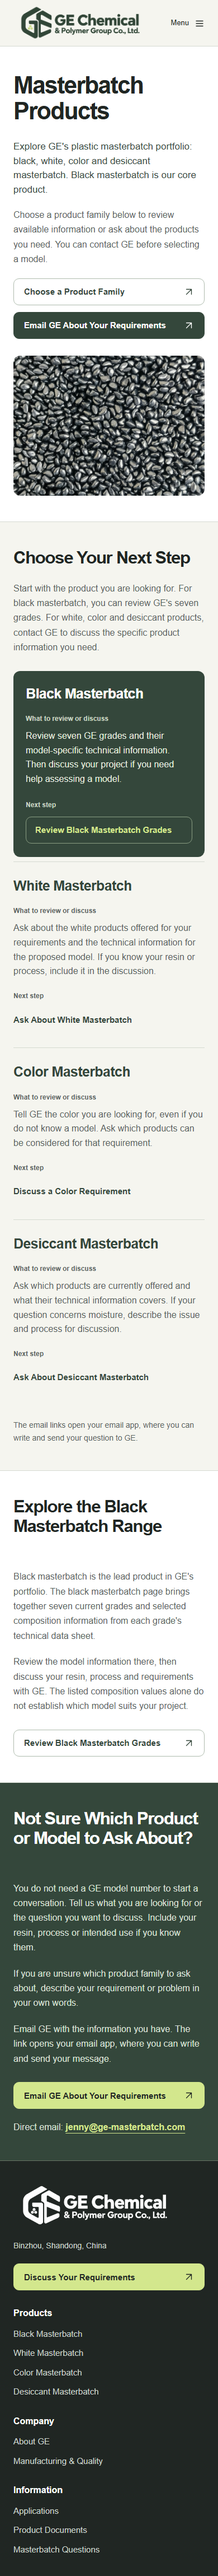
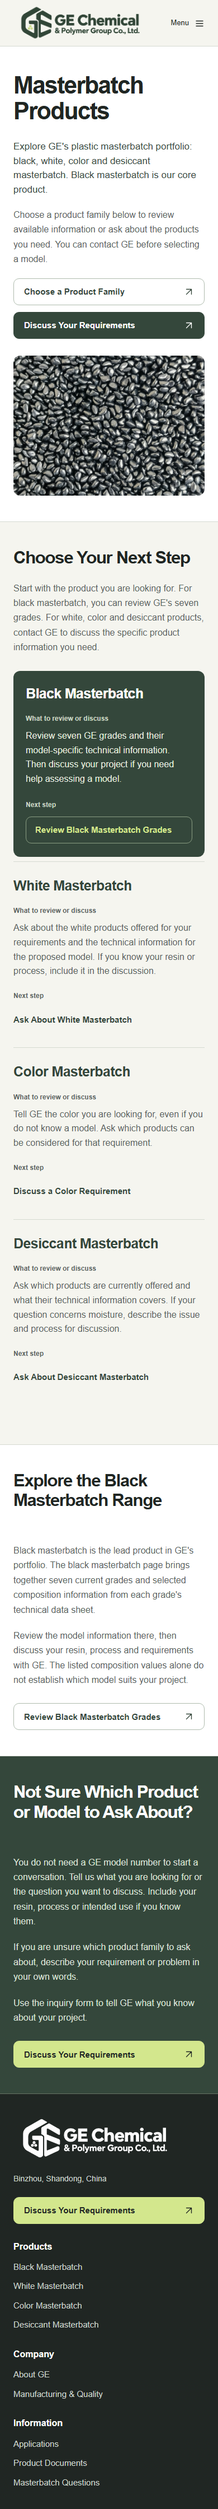
Replace P002 email actions with inquiry form entrances

Changed region(s): [[0.0, 0.0, 1.0, 1.0], [0.8308, 0.4375, 0.8923, 0.4688], [0.3385, 0.9688, 0.4, 1.0]]

diff --git a/planning/visuals/P002/p002-visual.html b/planning/visuals/P002/p002-visual.html
@@ -2,7 +2,7 @@
 <p>Explore GE&#39;s plastic masterbatch portfolio: black, white, color and desiccant masterbatch. Black masterbatch is our core product.</p>
 <p>Choose a product family below to review available information or ask about the products you need. You can contact GE before selecting a model.</p>
 <p class="action"><a class="btn secondary" href="#choose-your-next-step">Choose a Product Family<svg class="ui-icon" aria-hidden="true" focusable="false" xmlns="http://www.w3.org/2000/svg" viewBox="0 0 24 24" fill="none" stroke="currentColor" stroke-width="1.8" stroke-linecap="round" stroke-linejoin="round"><path d="M6 18 18 6M6 6h12v12"/></svg></a></p>
-<p class="action"><a class="btn primary" href="mailto:jenny@ge-masterbatch.com">Email GE About Your Requirements<svg class="ui-icon" aria-hidden="true" focusable="false" xmlns="http://www.w3.org/2000/svg" viewBox="0 0 24 24" fill="none" stroke="currentColor" stroke-width="1.8" stroke-linecap="round" stroke-linejoin="round"><path d="M6 18 18 6M6 6h12v12"/></svg></a></p>
+<p class="action"><a class="btn primary" href="/rfq">Discuss Your Requirements<svg class="ui-icon" aria-hidden="true" focusable="false" xmlns="http://www.w3.org/2000/svg" viewBox="0 0 24 24" fill="none" stroke="currentColor" stroke-width="1.8" stroke-linecap="round" stroke-linejoin="round"><path d="M6 18 18 6M6 6h12v12"/></svg></a></p>
 </div><figure class="hero-photo"><img src="../../inputs/Cmp_Info/PIC&Vedio/%E5%BE%AE%E4%BF%A1%E5%9B%BE%E7%89%87_20260707174840_213_1.jpg" alt="Black masterbatch granules"></figure></div></section><section class="families module" id="choose-your-next-step"><div class="shell"><h2>Choose Your Next Step</h2>
 <p>Start with the product you are looking for. For black masterbatch, you can review GE&#39;s seven grades. For white, color and desiccant products, contact GE to discuss the specific product information you need.</p>
 <table class="family-table">
@@ -21,20 +21,19 @@
 <tr class="family-row ">
 <td data-label="Your product interest"><strong>White Masterbatch</strong></td>
 <td data-label="What to review or discuss">Ask about the white products offered for your requirements and the technical information for the proposed model. If you know your resin or process, include it in the discussion.</td>
-<td data-label="Next step"><a href="mailto:jenny@ge-masterbatch.com">Ask About White Masterbatch</a></td>
+<td data-label="Next step"><a href="/rfq">Ask About White Masterbatch</a></td>
 </tr>
 <tr class="family-row ">
 <td data-label="Your product interest"><strong>Color Masterbatch</strong></td>
 <td data-label="What to review or discuss">Tell GE the color you are looking for, even if you do not know a model. Ask which products can be considered for that requirement.</td>
-<td data-label="Next step"><a href="mailto:jenny@ge-masterbatch.com">Discuss a Color Requirement</a></td>
+<td data-label="Next step"><a href="/rfq">Discuss a Color Requirement</a></td>
 </tr>
 <tr class="family-row ">
 <td data-label="Your product interest"><strong>Desiccant Masterbatch</strong></td>
 <td data-label="What to review or discuss">Ask which products are currently offered and what their technical information covers. If your question concerns moisture, describe the issue and process for discussion.</td>
-<td data-label="Next step"><a href="mailto:jenny@ge-masterbatch.com">Ask About Desiccant Masterbatch</a></td>
+<td data-label="Next step"><a href="/rfq">Ask About Desiccant Masterbatch</a></td>
 </tr>
 </tbody></table>
-<p>The email links open your email app, where you can write and send your question to GE.</p>
 </div></section><section class="black-range module"><div class="shell section-grid"><div class="section-heading"><h2>Explore the Black Masterbatch Range</h2>
 </div><div class="section-body"><p>Black masterbatch is the lead product in GE&#39;s portfolio. The black masterbatch page brings together seven current grades and selected composition information from each grade&#39;s technical data sheet.</p>
 <p>Review the model information there, then discuss your resin, process and requirements with GE. The listed composition values alone do not establish which model suits your project.</p>
@@ -42,7 +41,6 @@
 </div></div></section><section class="closing module"><div class="shell section-grid"><div class="section-heading"><h2>Not Sure Which Product or Model to Ask About?</h2>
 </div><div class="section-body"><p>You do not need a GE model number to start a conversation. Tell us what you are looking for or the question you want to discuss. Include your resin, process or intended use if you know them.</p>
 <p>If you are unsure which product family to ask about, describe your requirement or problem in your own words.</p>
-<p>Email GE with the information you have. The link opens your email app, where you can write and send your message.</p>
-<p class="action"><a class="btn primary" href="mailto:jenny@ge-masterbatch.com">Email GE About Your Requirements<svg class="ui-icon" aria-hidden="true" focusable="false" xmlns="http://www.w3.org/2000/svg" viewBox="0 0 24 24" fill="none" stroke="currentColor" stroke-width="1.8" stroke-linecap="round" stroke-linejoin="round"><path d="M6 18 18 6M6 6h12v12"/></svg></a></p>
-<p>Direct email: <a href="mailto:jenny@ge-masterbatch.com">jenny@ge-masterbatch.com</a></p>
+<p>Use the inquiry form to tell GE what you know about your project.</p>
+<p class="action"><a class="btn primary" href="/rfq">Discuss Your Requirements<svg class="ui-icon" aria-hidden="true" focusable="false" xmlns="http://www.w3.org/2000/svg" viewBox="0 0 24 24" fill="none" stroke="currentColor" stroke-width="1.8" stroke-linecap="round" stroke-linejoin="round"><path d="M6 18 18 6M6 6h12v12"/></svg></a></p>
 </div></div></section></main><footer class="site-footer" data-shared-chrome><div class="shell footer-grid"><div class="footer-identity"><a class="brand" href="/" aria-label="GE Chemical homepage"><img src="../P001/assets/ge-logo-candidate.png" alt="GE Chemical &amp; Polymer Group Co., Ltd."></a><p>Binzhou, Shandong, China</p><a class="btn primary header-cta" href="/rfq">Discuss Your Requirements<svg class="ui-icon" aria-hidden="true" focusable="false" xmlns="http://www.w3.org/2000/svg" viewBox="0 0 24 24" fill="none" stroke="currentColor" stroke-width="1.8" stroke-linecap="round" stroke-linejoin="round"><path d="M6 18 18 6M6 6h12v12"/></svg></a></div><div class="footer-column"><p class="footer-title">Products</p><nav aria-label="Products"><a href="/products/black-masterbatch">Black Masterbatch</a><a href="/products/white-masterbatch">White Masterbatch</a><a href="/products/color-masterbatch">Color Masterbatch</a><a href="/products/desiccant-defoaming-masterbatch">Desiccant Masterbatch</a></nav></div><div class="footer-column"><p class="footer-title">Company</p><nav aria-label="Company"><a href="/about">About GE</a><a href="/manufacturing-quality">Manufacturing & Quality</a></nav></div><div class="footer-column"><p class="footer-title">Information</p><nav aria-label="Information"><a href="/applications">Applications</a><a href="/documents">Product Documents</a><a href="/faq">Masterbatch Questions</a></nav></div></div></footer></body></html>

diff --git a/planning/visuals/P002/p002-visual.css b/planning/visuals/P002/p002-visual.css
@@ -123,7 +123,6 @@ p{color:var(--muted);margin-bottom:20px}
 .black-range .action{margin-top:28px;margin-bottom:0}
 .closing .action{margin-top:28px}
 .closing p:last-child{margin-bottom:0}
-.closing p:last-child a{color:var(--accent);font-weight:600;overflow-wrap:anywhere}
 @media(max-width:1000px){.hero-layout{gap:34px;grid-template-columns:1.2fr .8fr}.hero-art{height:360px}.grain-field{padding:50px 24px}.family-table th:first-child{width:24%}.family-table th:nth-child(2){width:43%}.family-table th:last-child{width:33%}.family-table td{font-size:16px;padding-right:18px}.family-table td:first-child{font-size:21px}.family-table td a{font-size:14px}.family-table .lead-family td:first-child{padding-left:18px}.family-table .lead-family td:last-child{padding-right:18px}}
 @media(max-width:860px){.hero-layout{grid-template-columns:1fr}.hero-art{height:200px;max-width:none}.grain-field{grid-template-columns:repeat(6,1fr);padding:20px 50px;transform:rotate(-7deg)}.hero-art:after{width:300px;height:300px;top:-50px;left:calc(50% - 150px)}.family-table thead{display:none}.family-table,.family-table tbody{display:block}.family-table tbody{display:flex;flex-direction:column;gap:0}.family-table tr{display:grid;grid-template-columns:1fr 1fr;gap:0 28px;border-top:1px solid var(--line);padding:28px 0}.family-table td{display:block;border:0;padding:0;width:auto}.family-table td:first-child{grid-column:1/-1;margin-bottom:18px;font-size:25px}.family-table td:last-child{align-self:start}.family-table td:nth-child(2)::before,.family-table td:nth-child(3)::before{content:attr(data-label);display:block;font-size:12px;color:var(--muted);font-weight:700;margin-bottom:8px}.family-table .lead-family{background:var(--green);border:0;border-radius:12px;padding:28px 24px;margin-bottom:16px}.family-table .lead-family td:first-child,.family-table .lead-family td:last-child,.family-table .lead-family td{padding:0;border-radius:0}.family-table .lead-family td::before{color:#c9d5c1}.family-table .lead-family td a{margin-top:3px}.families>.shell>p:last-child{margin-top:0}}
 @media(max-width:600px){.hero-copy .action{display:block;margin:12px 0 0}.hero-copy .action .btn{width:100%}.hero-layout{gap:30px}.hero-art{height:190px}.grain-field{grid-template-columns:repeat(4,1fr);padding:20px 40px;gap:10px}.hero-copy>p:nth-of-type(2){font-size:16px}.family-table{margin-top:28px}.family-table tr{grid-template-columns:1fr;gap:0;padding:26px 0}.family-table td:first-child{margin-bottom:20px;font-size:25px}.family-table td:nth-child(2){margin-bottom:22px}.family-table td a{font-size:15px}.family-table .lead-family{padding:24px 22px;margin-bottom:8px}.family-table .lead-family td:nth-child(2){margin-bottom:24px}.family-table .lead-family td a{width:100%;justify-content:space-between}.family-table td:last-child a{min-height:48px}.black-range .action .btn,.closing .action .btn{width:100%}.closing h2{max-width:650px}.hero-art:after{width:230px;height:230px;top:-20px;left:calc(50% - 115px)}}

diff --git a/planning/pages/P002.md b/planning/pages/P002.md
@@ -42,7 +42,7 @@ Planning scope accepted by owner: 2026-10-02. This registers the accepted 43-pag
 
 - Receiving activity that may proceed: page direction and source review within this accepted planning scope.
 - Direction: revised against the owner's 2026-10-03 scope and keyword decisions; independently `REVIEW_READY` and owner-confirmed on 2026-10-03. Gate 1 is complete.
-- Content skeleton: Gate 2 Pass 1 independently `REVIEW_READY` and owner-confirmed on 2026-10-03. Full Copy: independently `REVIEW_READY` and owner-confirmed on 2026-10-03.
+- Content skeleton: Gate 2 Pass 1 independently `REVIEW_READY` and owner-confirmed on 2026-10-03. Full Copy: independently `REVIEW_READY` and owner-confirmed on 2026-10-03; the owner's subsequent form-only action correction is directly authorized and applied below, with targeted independent re-review pending. Earlier email actions are superseded.
 - Visual direction: Gate 3 complete static candidate at 1440/768/390 prepared and inspected on 2026-10-03; owner visual approval pending.
 - Runtime build, responsive testing, form delivery and release checks: not started for this page.
 - A gap on this page does not block unrelated pages.
@@ -84,9 +84,9 @@ Recommended answer: present black masterbatch first and with greater prominence,
 | 我在找 White Masterbatch；GE 是否有这个产品族，哪里能核实具体供给？ | 业主已确认 White 在供给及本次网站范围内；现有资料不足以在目录列出白色型号或技术比较，单一 MB Blanco PE 报告仅覆盖该样品。 | 当前走已授权且核对后的联系渠道询问白色供给；P014 内容和路由就绪后承担详情入口。型号、载体、白度、遮盖力、工艺适配与合规范围须由相应来源及销售确认，不由 P002 补齐。 |
 | 我在找 Color Masterbatch，或有目标颜色但没有 GE 型号；下一步是什么？ | 业主已确认 Color 产品族及推广方向。可以让买家说明颜色需求，现有资料不能证明标准色号范围或配色服务能力。 | 当前联系 GE 讨论具体供给；P015 就绪后承接更详细的色彩需求与产品判断。色号、样品/参考色要求、定制是否可行、色差及适用树脂须销售确认；目标颜色只作为买家问题，不构成定制承诺。 |
 | 我在找 Desiccant Masterbatch，或有与水分相关的问题；有什么资料可以继续核实？ | 业主确认 Desiccant 在本次网站范围及推广方向内；有 DM2476G 单一 TDS 可作为该型号的资料输入。它不能证明整个家族性能、DM2476G 当前在售或独立 defoaming 功能。 | 当前联系 GE 确认具体产品及问题，待 P016 就绪再提供详情入口。具体型号可供性、技术范围和问题适用性须确认；不因为买家提到水分或气泡就推荐 DM2476G 或宣称可解决问题。 |
-| 我只有用途/工艺问题，不知道产品族或型号；是否仍可开始？ | 已确认无需先选型号即可联系 GE；当前资料不足以从用途自动映射四家族或黑色型号。 | 允许用买家已知的用途、树脂、工艺或问题发起讨论，不强制选择家族/型号。P006 实际可用后走询盘；当前候选为核对后的已授权 Jenny 邮件入口。用途页面就绪后可补信息导航，仍不等于推荐。 |
+| 我只有用途/工艺问题，不知道产品族或型号；是否仍可开始？ | 已确认无需先选型号即可联系 GE；当前资料不足以从用途自动映射四家族或黑色型号。 | 允许用买家已知的用途、树脂、工艺或问题发起讨论，不强制选择家族/型号。当前 Owner 指定 P006 `/rfq` 表单为唯一询盘入口，邮件候选已撤销；实际可用性与保存/反馈仍须验证。用途页面就绪后可补信息导航，仍不等于推荐。 |
 
-以上路由给出每类兴趣的资料深度、可核实问题及当前行动差异，构成 P002 比首页多解决的一层买家判断。P014–P016 的规划路径不作为当前可点击详情入口；联系渠道核对及 P006 行为验证仍遵守下文行动条件。
+以上路由给出每类兴趣的资料深度、可核实问题及当前行动差异，构成 P002 比首页多解决的一层买家判断。P014–P016 的规划路径不作为当前可点击详情入口；White、Color、Desiccant 及未知家族/型号的“联系 GE”均使用 Owner 指定的 P006 `/rfq` 表单，不提供邮箱或 mailto fallback。P006 行为验证仍遵守下文行动条件。
 
 ### Buyer-question priorities and page boundaries
 
@@ -113,11 +113,11 @@ Keyword and content responsibilities follow the owner's 2026-10-03 amendment:
 ### Actions, presentation inputs and open decisions
 
 - Primary product exit: P013 `/products/black-masterbatch`, expected to open the black family and its seven documented models. P013 currently has a local WordPress page at the nested route, recorded in its 2026-10-02 build note. This does not prove production availability. Secondary family exits P014–P016 should become links only after their content and actual routes are ready; meanwhile the index can describe them and provide a verified inquiry route. The former P002 self-link cannot serve as its CTA.
-- Inquiry exit: P006 `/rfq` is the planned form destination for a conversation with or without a known model. P006's 2026-10-02 owner clarification permits the existing site's contact channels and identifies Jenny as the intended WordPress-form forwarding recipient; its Skeleton independently reached `REVIEW_READY`. The local P006 form, persistence, notification, saved/error feedback and actual receipt remain unverified. Until that route works, an owner-authorized Jenny `mailto:` link, as used on local P013, is a candidate interim action for P002 after its exact target and rendered link are checked. Opening an email client does not prove delivery or response. Do not present `/rfq` as currently usable solely from its planned path.
+- Inquiry exit: the owner's 2026-10-03 correction chooses P006 `/rfq` as P002's sole inquiry action for known-family and unknown-family/model buyers. Visible email addresses, mailto links and email-app instructions are removed; no interim email fallback is activated on P002. P006 identifies Jenny as the intended internal forwarding recipient and records a reviewed Skeleton, but its local form, persistence, notification, saved/error feedback and actual receipt remain unverified. This is an owner-selected destination, not evidence of active or reliable form behavior. Verify those actions before runtime acceptance; do not promise saved/received requests or responses.
 - Additional exits to applications, manufacturing or documents should be used only where they answer a distinct question and their local destinations have approved content and work. Planned SITE_MAP routes alone are not active links.
 - Gate 3 input: reuse the approved GE Logo, shared header/footer, 15 interface icons and primary inquiry / secondary family / text navigation styles from `../DESIGN_SYSTEM.md` and the implemented P001/P013 presentation. Any candidate product image from `../inputs/Cmp_Info/PIC&Vedio/` needs subject, rights, caption and family-scope checks; black granules do not represent white/color/desiccant. On mobile keep the four families distinguishable, the black detail entrance and inquiry route visible, with compact links and readable labels. These are visual constraints, not a layout or final module order.
 - **Owner/product:** confirm the public descriptions and actual supply scope for white, color and desiccant, and whether DM2476G is presently sold and should be named. This determines whether P002 can provide a more specific secondary-family comparison or only an inquiry-led overview. Do not convert the P016 planning slug or keyword into a defoaming promise.
-- **Owner/sales and P006:** the existing contact channels and intended Jenny forwarding recipient are confirmed at planning level. Settle P006's exact initial inputs and privacy wording, then verify local saving, notification, buyer feedback and fallback before a form CTA or READY claim. For an interim email CTA, verify its rendered target and describe only the email-client action.
+- **Owner/sales and P006:** the intended Jenny forwarding recipient is confirmed at planning level. The Owner selects form-only inquiry actions on P002. Settle P006's exact initial inputs and privacy wording, then verify its actual route, local saving, notification and buyer feedback before runtime acceptance or a READY claim. A planned `/rfq` destination is not behavior proof; do not reintroduce email fallback on P002.
 - **Site migration:** confirm `/products` and family canonical URLs/legacy handling before final metadata and live link activation. The planning paths and keyword responsibilities remain as recorded until that decision.
 
 Gate 1 self-check: the index task, factual scope, product priority, distinct page ownership and next actions are stated; every material gap has a consequence. Status remains PLANNED. The revised direction passed independent Gate 1 re-review and was then owner-confirmed as recorded below.
@@ -133,6 +133,8 @@ Gate 1 self-check: the index task, factual scope, product priority, distinct pag
 - **Owner confirmation and next-pass authorization, 2026-10-03:** exact instruction: “P002 可以结束 Gate 1，下一步同步 SEO_MAP，然后进入 Gate 2 Skeleton。” This confirms the revised Gate 1 direction, authorizes synchronization of P002's keyword ownership in SEO_MAP, and authorizes Gate 2 Pass 1 Skeleton with separate buyer review. The resulting Skeleton, Full Copy, visual, implementation and release retain their own decisions. Status remains PLANNED.
 
 ## Gate 2 Pass 1 — Skeleton candidate — 2026-10-03
+
+Historical approved Skeleton: structure and fact boundaries remain applicable. Email labels, mailto destinations, email-client instructions and corresponding action review/self-check statements below are superseded by the Owner's form-only correction recorded after Full Copy. They are retained as history, not current buyer-visible text or action policy.
 
 候选范围：仅基于已确认 Gate 1 写可供判断的英语代表内容和买家阅读顺序；不是 Full Copy、视觉或实现方案。产品族选择依据是买家已表达的产品兴趣或待讨论问题，不据树脂、工艺或性能推断适配。四族范围来自本页最新 Owner 决策，黑色优先来自 SITE_BRIEF 的业务与 W3 优先级，七型号深度来自 P013。P001 的供应商介绍、P013–P016 的详细产品判断与 P032 的教育职责保持原分工。
 
@@ -256,7 +258,7 @@ Choose a product family below to review available information or ask about the p
 
 [Choose a Product Family](#choose-your-next-step)
 
-[Email GE About Your Requirements](mailto:jenny@ge-masterbatch.com)
+[Discuss Your Requirements](/rfq)
 
 ## Choose Your Next Step
 
@@ -265,11 +267,9 @@ Start with the product you are looking for. For black masterbatch, you can revie
 | Your product interest | What to review or discuss | Next step |
 |---|---|---|
 | **Black Masterbatch** | Review seven GE grades and their model-specific technical information. Then discuss your project if you need help assessing a model. | [Review Black Masterbatch Grades](/products/black-masterbatch) |
-| **White Masterbatch** | Ask about the white products offered for your requirements and the technical information for the proposed model. If you know your resin or process, include it in the discussion. | [Ask About White Masterbatch](mailto:jenny@ge-masterbatch.com) |
-| **Color Masterbatch** | Tell GE the color you are looking for, even if you do not know a model. Ask which products can be considered for that requirement. | [Discuss a Color Requirement](mailto:jenny@ge-masterbatch.com) |
-| **Desiccant Masterbatch** | Ask which products are currently offered and what their technical information covers. If your question concerns moisture, describe the issue and process for discussion. | [Ask About Desiccant Masterbatch](mailto:jenny@ge-masterbatch.com) |
-
-The email links open your email app, where you can write and send your question to GE.
+| **White Masterbatch** | Ask about the white products offered for your requirements and the technical information for the proposed model. If you know your resin or process, include it in the discussion. | [Ask About White Masterbatch](/rfq) |
+| **Color Masterbatch** | Tell GE the color you are looking for, even if you do not know a model. Ask which products can be considered for that requirement. | [Discuss a Color Requirement](/rfq) |
+| **Desiccant Masterbatch** | Ask which products are currently offered and what their technical information covers. If your question concerns moisture, describe the issue and process for discussion. | [Ask About Desiccant Masterbatch](/rfq) |
 
 ## Explore the Black Masterbatch Range
 
@@ -285,11 +285,9 @@ You do not need a GE model number to start a conversation. Tell us what you are 
 
 If you are unsure which product family to ask about, describe your requirement or problem in your own words.
 
-Email GE with the information you have. The link opens your email app, where you can write and send your message.
+Use the inquiry form to tell GE what you know about your project.
 
-[Email GE About Your Requirements](mailto:jenny@ge-masterbatch.com)
-
-Direct email: [jenny@ge-masterbatch.com](mailto:jenny@ge-masterbatch.com)
+[Discuss Your Requirements](/rfq)
 
 ### End buyer-visible Full Copy
 
@@ -299,21 +297,23 @@ Direct email: [jenny@ge-masterbatch.com](mailto:jenny@ge-masterbatch.com)
 |---|---|---|
 | Choose a Product Family | `#choose-your-next-step`，本页 Choose Your Next Step 内容 | 到达四族选择内容；是内容导航，不以 `/products` 自链接替代离页行动。尚未构建 P002，锚点渲染需后续核对。 |
 | Review Black Masterbatch Grades | P013 `/products/black-masterbatch`，用于目录行及黑色模块 | 打开 P013，查看七当前黑色型号及各自 TDS 组成信息。P013 的 Owner 公开/在售确认和 local build 记录支持其内容与本地已有路径；不是生产可用性证明。 |
-| Ask About White Masterbatch | `mailto:jenny@ge-masterbatch.com` | 打开邮件程序讨论白色具体供给与型号资料。Owner 确认 White 在范围内；单一 MB Blanco PE 报告不进入本页，不扩展参数、性能、合规或在售型号。 |
-| Discuss a Color Requirement | `mailto:jenny@ge-masterbatch.com` | 打开邮件程序，买家可说明目标颜色或问题。Owner 确认 Color 范围/推广方向；没有色号目录、配色、定制、色差或树脂适配承诺。 |
-| Ask About Desiccant Masterbatch | `mailto:jenny@ge-masterbatch.com` | 打开邮件程序确认具体当前产品及资料范围。Owner 确认 Desiccant 范围/推广方向；DM2476G 单一 TDS 不证明家族性能或当前在售，未在公开文案命名；不因水分问题暗示除湿/消泡解决能力。 |
-| Email GE About Your Requirements; jenny@ge-masterbatch.com | `mailto:jenny@ge-masterbatch.com`，Hero/未知产品模块/明示地址 | 打开邮件程序，可由买家撰写并发送；已知族/型号/树脂/工艺均非入门条件。P006 Owner clarification 允许现有联系渠道并记录 Jenny 地址，P013 local action note 记录同地址的当前动作。邮件链接、明示可复制地址不证明发送、通知、收件或响应。 |
+| Ask About White Masterbatch | P006 `/rfq` | 预期进入询盘表单，买家可说明白色具体供给与型号资料问题；表单实际路径/行为未验证。Owner 确认 White 在范围内；单一 MB Blanco PE 报告不进入本页，不扩展参数、性能、合规或在售型号。 |
+| Discuss a Color Requirement | P006 `/rfq` | 预期进入询盘表单，买家可说明目标颜色或问题；表单实际路径/行为未验证。Owner 确认 Color 范围/推广方向；没有色号目录、配色、定制、色差或树脂适配承诺。 |
+| Ask About Desiccant Masterbatch | P006 `/rfq` | 预期进入询盘表单，买家可询问具体当前产品及资料范围；表单实际路径/行为未验证。Owner 确认 Desiccant 范围/推广方向；DM2476G 单一 TDS 不证明家族性能或当前在售，未在公开文案命名；不因水分问题暗示除湿/消泡解决能力。 |
+| Discuss Your Requirements | P006 `/rfq`，Hero/未知产品模块 | 预期进入询盘表单，已知族/型号/树脂/工艺均非入门条件。Owner 最新指令指定表单，不显示邮箱，不让访客在 P002 发邮件。P006 路径、保存/错误、通知、实际收件与回复尚未验证；不作结果承诺。 |
 
 - 文案事实来自本页 Owner-confirmed Gate 1、SITE_BRIEF 的业务/W3 决定、P013 当前七型号/技术内容及本地行动记录、INPUT_REVIEW 的来源边界和 P006 的联系授权。未新增外部研究，未引用未提供内容，未改变 Primary/semantic keyword allocation。
 - P014/P015/P016 仍 PLANNED，没有已获批详情或实际可用路径证据；Full Copy 不激活三个计划详情地址，也不展示 P016 slug 中的 defoaming。P017–P023 七型号详情仍不作为链接。产品族详细评估和各自商业词 ownership 继续归 P013–P016。
-- P006 仍为候选 Skeleton，实际 form saving/error、通知和接收未验证；本页没有表单、提交按钮、表单反馈、可靠 `/rfq` 声明、送达承诺或回复期限。后续改用 `/rfq` 时须按最新 P006 决定和行为证据修改本页行动文案与 register；该将来改动不属于当前候选。
+- P006 仍为候选 Skeleton，实际 form saving/error、通知和接收未验证；最新 Owner 决定直接将 P002 询盘 CTA 指向 `/rfq`。此处只是表单入口，无本页表单、提交按钮或反馈，不声称目标已可用、可靠保存/送达或承诺回复期限。实现和验收前须核对 P006 最新决定与实际行为；未验证时不得擅自恢复邮件 fallback。
 - P001 保留制造商/供应商身份；P003/P004、P005 分别拥有公司/制造详情及文件范围；P032 保留定义/教育意图。本页不复制这些内容，不许诺资料下载，不列应用适配或采购条件。
 - 四族是本次网站确认纳入的范围；`portfolio` 未加 `all`、`complete` 或永久企业目录承诺。Filler 不在本页；Black 优先依据业务和网站策略，不是性能排名。
-- 仍待后续核实：白/彩/除湿更具体可公开供给、DM2476G 的当前销售/是否命名、P002 的实际邮箱链接和锚点、P013 本地目标复核、canonical/迁移、后续家族/form 入口、媒体范围/权利。当前文案通过限制说明和行动范围保留这些缺口，不代替核实。没有产品图片、视觉或实现决定。
+- 仍待后续核实：白/彩/除湿更具体可公开供给、DM2476G 的当前销售/是否命名、P002 的实际表单链接和锚点、P013 本地目标复核、canonical/迁移、后续家族/form 入口、媒体范围/权利。当前文案通过限制说明和行动范围保留这些缺口，不代替核实。没有产品图片、视觉或实现决定。
 
-Full Copy author self-check, 2026-10-03: 从 H1 至最后邮件地址按买家顺序读取。正文完整保留已确认四模块，实质回答四族范围、Black 可看七型号、三支持族各自需讨论的问题及未知族/型号入口；技术信息只指向 P013，未复制七型号表或泛化 TDS。所有行动有明确标签、地址和预期，邮件说明不声称发送/送达；计划 family/form 地址未进入公开链接。title/meta/H1 与 SEO_MAP 的 P002 核心词职责一致。`Status: PLANNED`。独立 Gate 2 Buyer Review 与 Owner Full Copy confirmation 下一步进行；作者自检不是审查通过或批准。
+Historical Full Copy author self-check, 2026-10-03 (email-action statements superseded): 从 H1 至最后邮件地址按买家顺序读取。正文完整保留已确认四模块，实质回答四族范围、Black 可看七型号、三支持族各自需讨论的问题及未知族/型号入口；技术信息只指向 P013，未复制七型号表或泛化 TDS。所有行动有明确标签、地址和预期，邮件说明不声称发送/送达；计划 family/form 地址未进入公开链接。title/meta/H1 与 SEO_MAP 的 P002 核心词职责一致。`Status: PLANNED`。独立 Gate 2 Buyer Review 与 Owner Full Copy confirmation 下一步进行；作者自检不是审查通过或批准。
 
 ### Independent Gate 2 Full Copy review — 2026-10-03
+
+Historical review of the email-action version: its content/fact findings remain evidence for that version. The email policy and action check are superseded; this review does not cover the subsequent form-only revision.
 
 - Separate read-only `gate2_buyer_review`, using `buyer-copy-review`, read the complete buyer-visible candidate and compared it with the confirmed direction/Skeleton, owner decisions, SEO_MAP/SITE_MAP and product/contact sources. Result: `REVIEW_READY`, with no required correction or decision blocking owner consideration.
 - Confirmed: four-module order and concrete family routing; Black priority and P013's technical comparison ownership; evidence-scoped supporting-family text; unknown-family/model entry; title/meta/H1 consistency; accurate email-client action wording. No unsupported parameter, suitability, color-matching, defoaming, receipt or response claim was found.
@@ -335,3 +335,17 @@ After the independently reviewed Full Copy and the proposed Gate 3 step were pre
 
 - Owner feedback: “hero的右侧的图片太差了。” The artificial decorative spheres were replaced with the supplied black-granule photograph `../inputs/Cmp_Info/PIC&Vedio/微信图片_20260707174840_213_1.jpg`, previously provisionally used on P001. The original image is unchanged; the draft uses layout cropping and alt text `Black masterbatch granules`. It depicts black granules only, not the White/Color/Desiccant families or a particular grade, stock, performance or compliance result. Existing source identity/date/production-rights limits remain recorded in P001 and INPUT_REVIEW.
 - Updated complete 1440/768/390 exports and editable source retain exact approved body copy and all nine main links. Images load and no horizontal overflow was found; the author inspected each Hero at readable size and the parent opened the [desktop Hero preview](../visuals/P002/p002-hero-1440.png). This replaces the earlier decorative-Hero choice; other module/content decisions remain applicable. Owner visual confirmation is pending.
+
+
+### Owner form-only action correction — 2026-10-03
+
+Owner explicitly requests removing the visible direct email address and replacing P002 email actions with the inquiry form: visitors should use the form instead of sending email from P002. This directly authorizes the bounded copy and matching static visual corrections; it does not require another confirmation loop for these requested corrections. The parent coordinates the visual changes separately. Existing four-module content, SEO, product scope and evidence limits remain applicable. No WordPress, P006 file or site-map edit is included.
+
+- Current Full Copy above now uses **Discuss Your Requirements** → P006 `/rfq` in the Hero and closing section. White/Color/Desiccant labels retain their meaning but also target `/rfq`. Direct email, all buyer-visible mailto links and both email-app instruction paragraphs are removed. The closing text invites using the inquiry form without a save/receipt/reply promise.
+- Gate 1's active inquiry policy/routing and the current Full Copy action register follow this form-only instruction. Historical Skeleton, email-action self-checks/reviews, prior confirmation and static visual action claims describe earlier versions; their email actions are superseded. They are not current implementation authority.
+- `/rfq` is the owner-chosen intended destination; actual P006 path, local saving/errors, forwarding, feedback and receipt remain unverified. The correction does not certify a working form or authorize new form behavior. Targeted independent re-review covers the actual corrected copy; matching visual correction is handled by Gate 3 under the same direct request.
+
+Form-only correction author self-check, 2026-10-03: read the complete current buyer-visible boundary in order. Four modules and all evidence-scoped family text are preserved. The two general inquiry CTAs and three supporting-family CTAs point to `/rfq`, two black-family CTAs retain P013, and the family-choice anchor remains. No email address, mailto, email-app instruction, saved/received inquiry assertion, response promise or fabricated form behavior appears in current buyer text. SEO title/meta/H1 are unchanged. Status remains PLANNED; targeted independent re-review pending.
+
+- **Independent targeted re-review:** the separate Gate 2 buyer reviewer read the complete revised Full Copy and adjacent action notes. Result: `REVIEW_READY`, no required findings. Five inquiry actions follow the owner's form-only decision; all public email/address/mailto instructions are removed, the unknown-family/model path remains, and no reliable-save, receipt or reply claim is made. This requested correction is owner-authorized without an additional confirmation loop; runtime availability is not verified by editorial review.
+- **Matching visual correction:** the Gate 3 author regenerated HTML/CSS and 1440/768/390 complete exports plus the Hero preview. Exact revised body text and all eight main labels/targets match; five inquiry links point to `/rfq`, four product-family rows and photo loading are intact, and no horizontal overflow appears. No visible email address, mailto or email-program instruction remains anywhere in the drawing. The author inspected Hero/closing at readable size for all widths; the parent opened the updated complete desktop export and checked the source for removed email elements. P006 runtime remains unverified. Owner approval of the complete visual and WordPress implementation remain pending.
